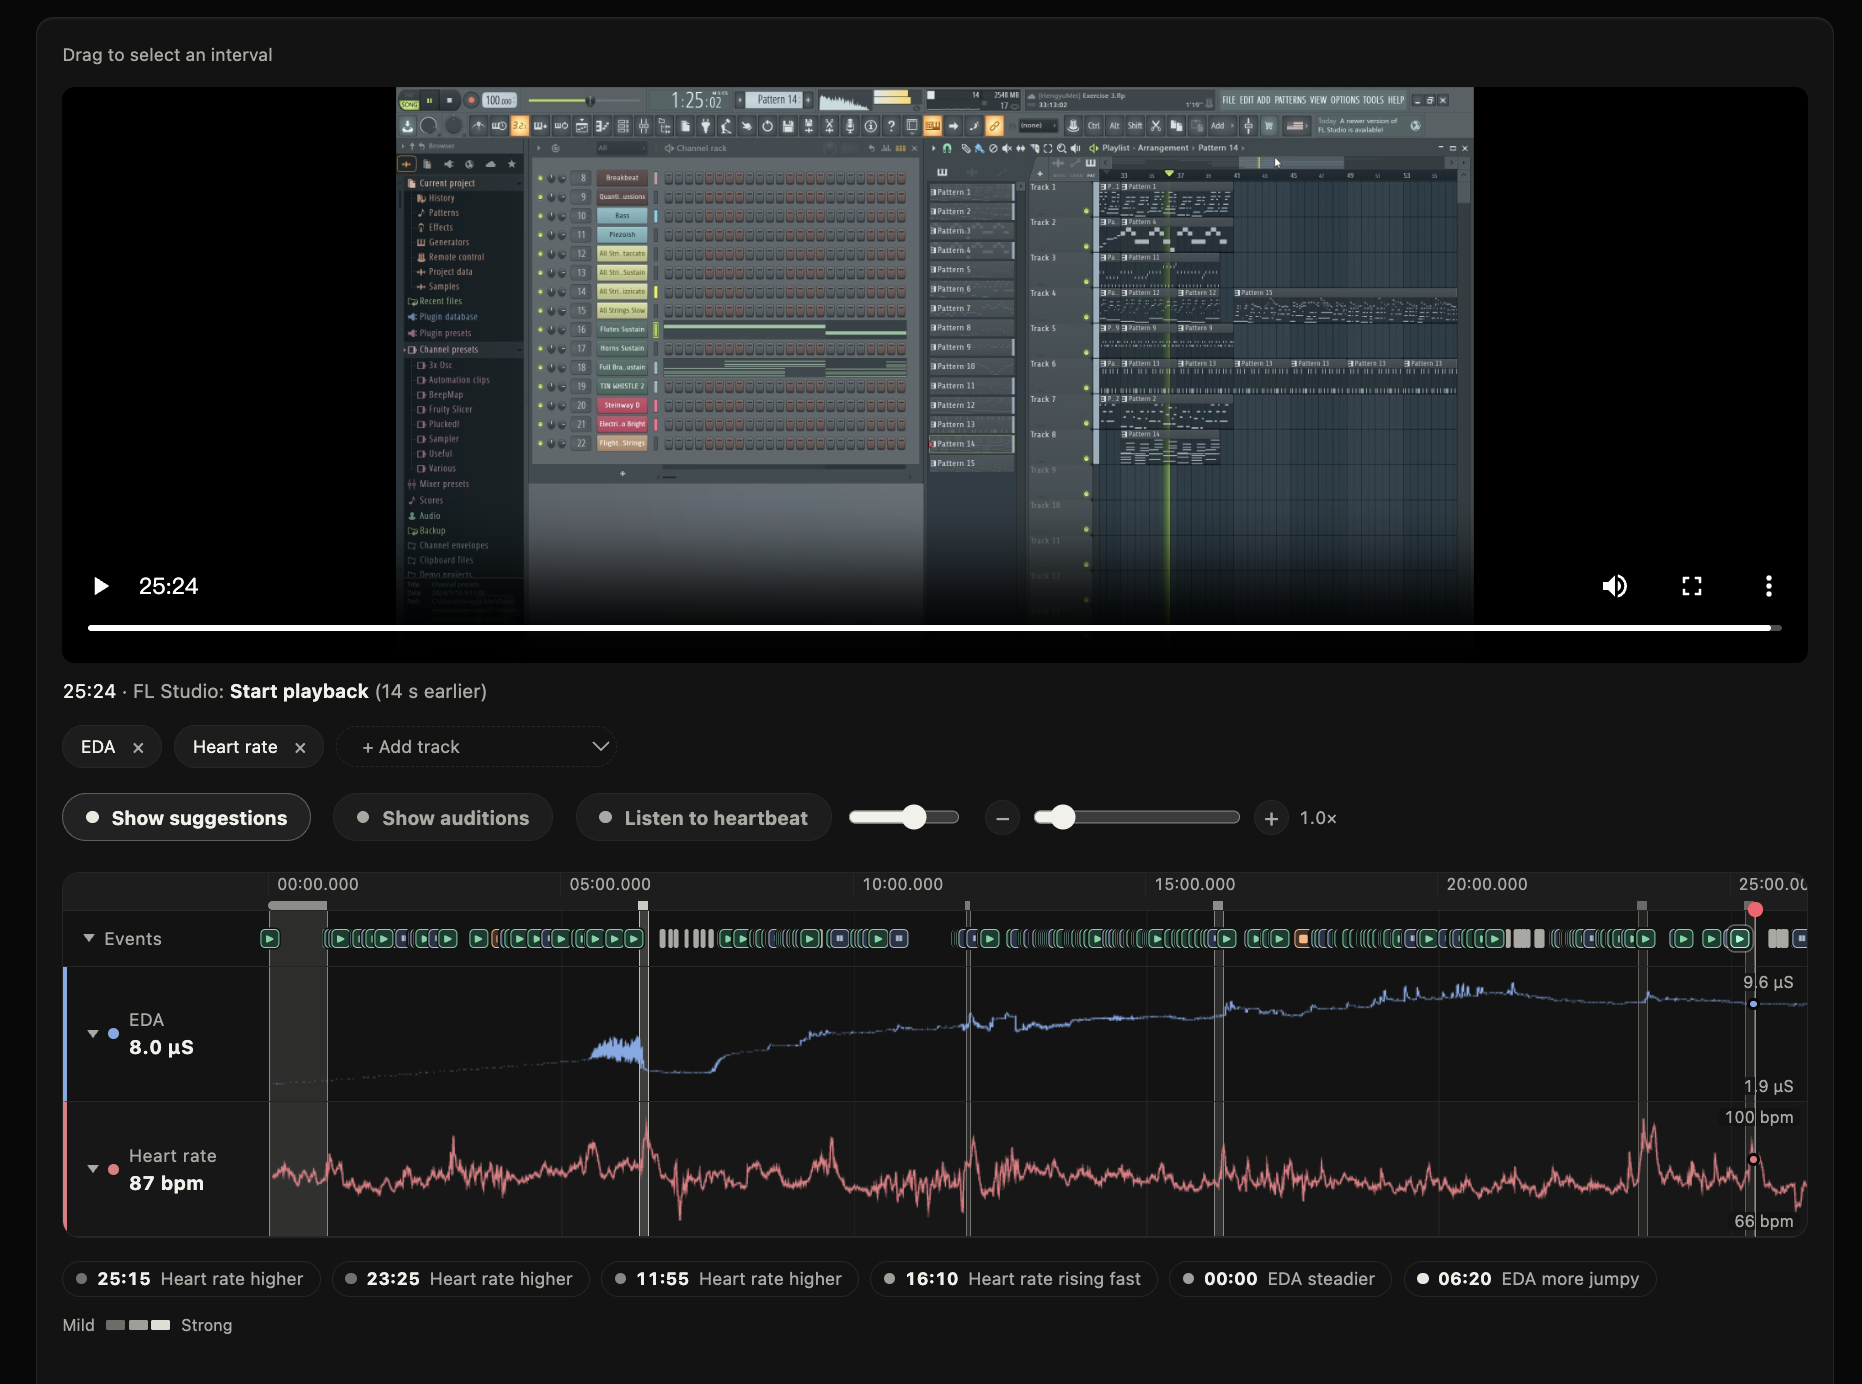
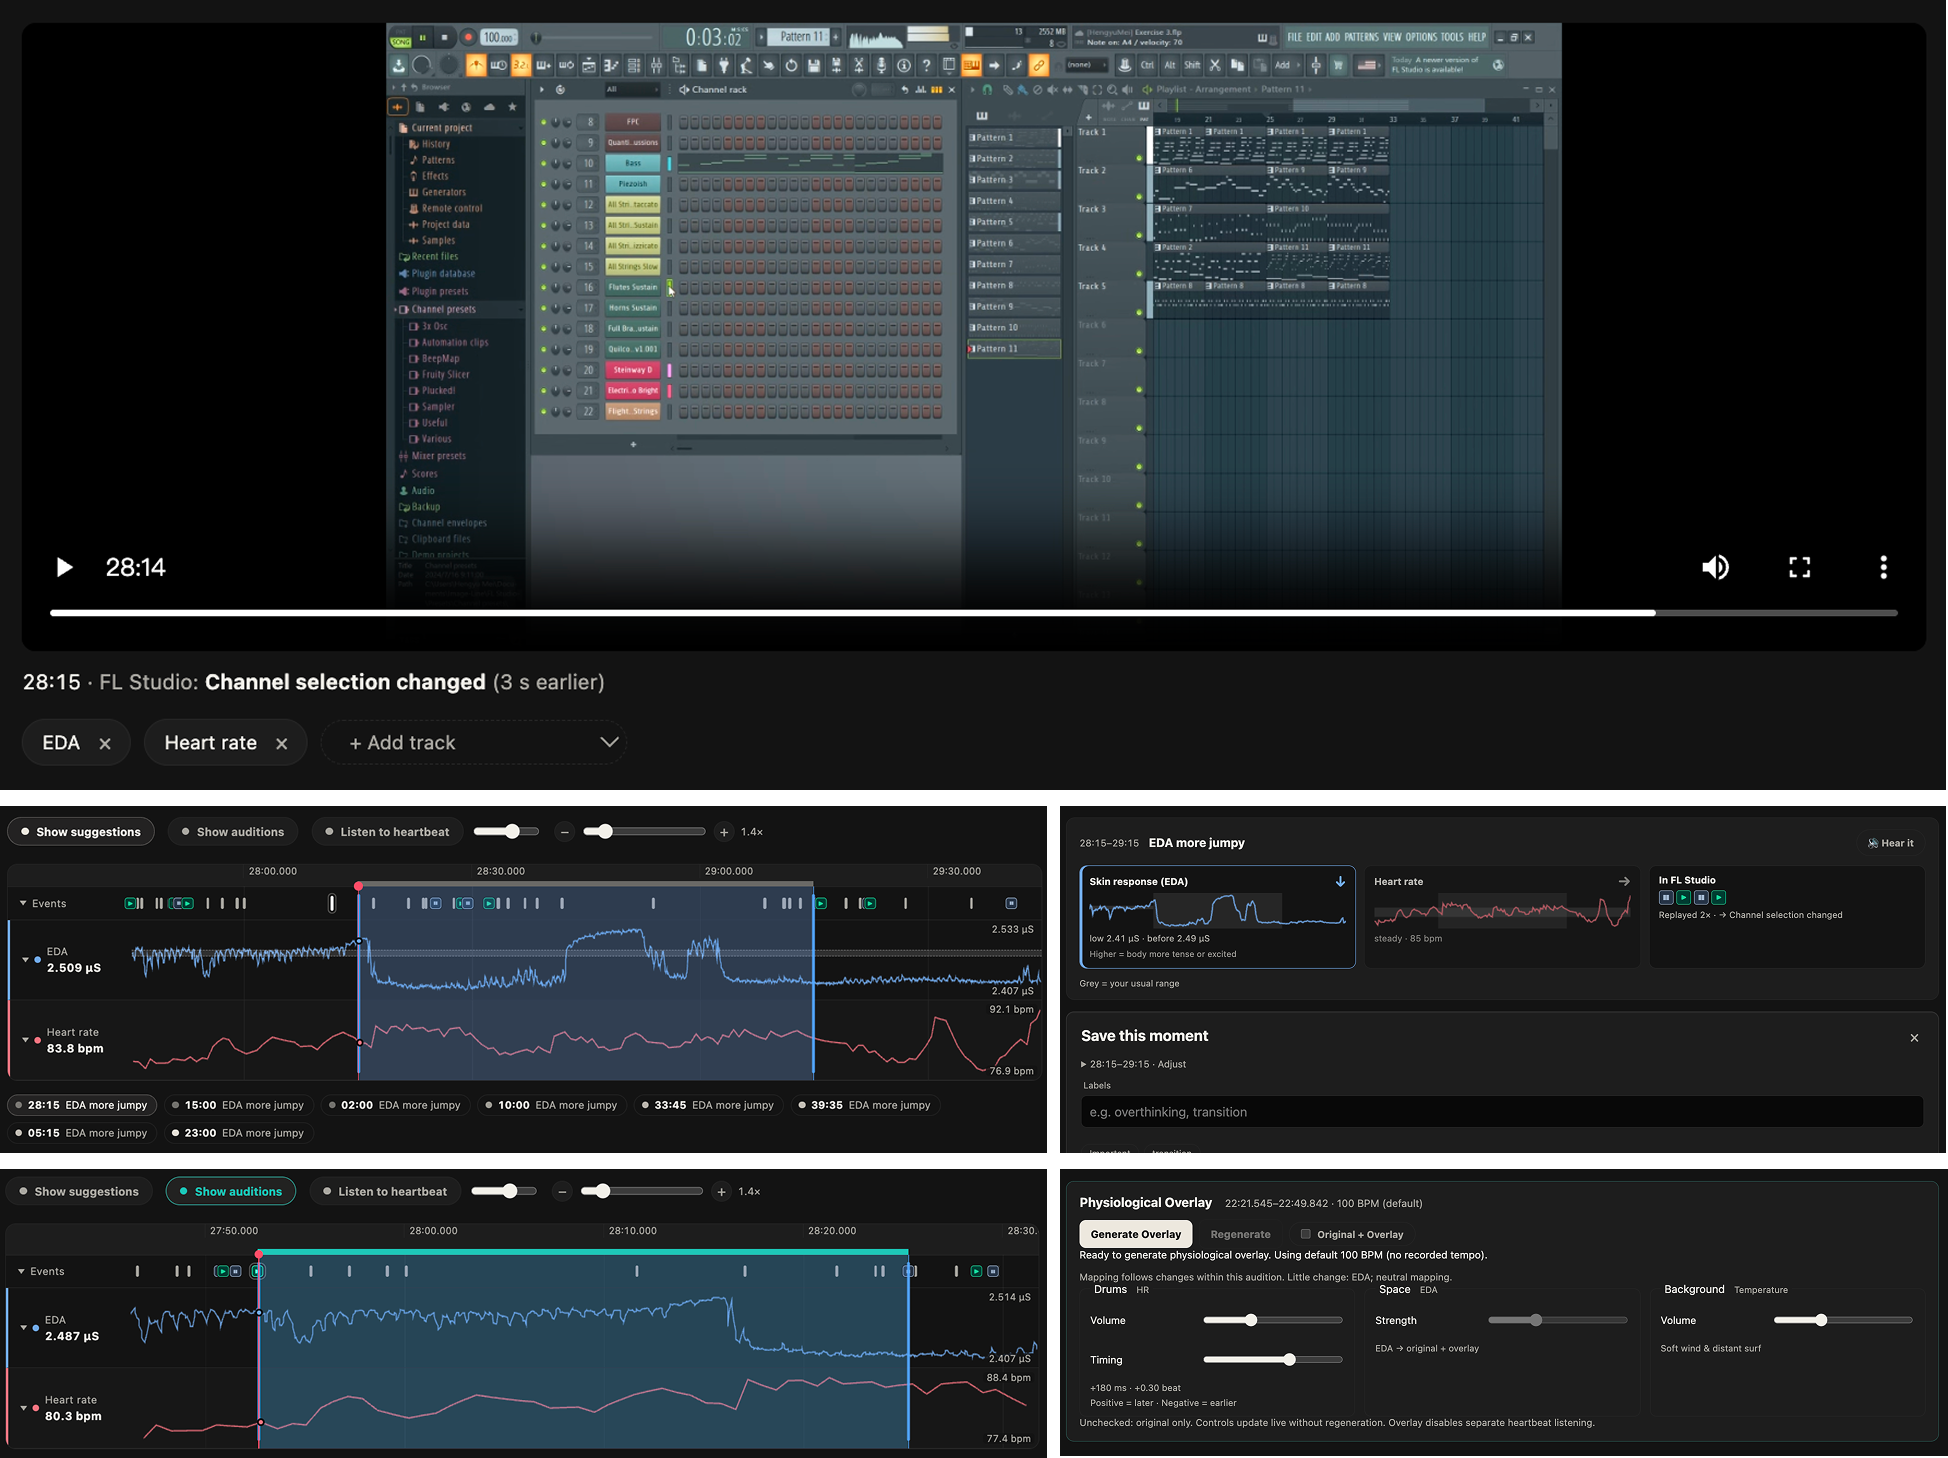
Modify Interface png

diff --git a/README.md b/README.md
@@ -86,7 +86,7 @@ In **Options → MIDI settings** on either platform:
 
 Select a suggested interval or drag across the timeline to add a note and labels. Saved moments appear in **History**.
 
-![screenshot of session review screen showing window recording, fl studio events, and physiological data on the same timeline](docs/fl1.png)
+![screenshot of session review screen showing window recording, fl studio events, and physiological data on the same timeline. Choosing a pattern suggestion allows labeling and saving the moment, and choosing an audition section allows generating overlay sound effects based on physiological data](docs/fl1.png)
 
 ## Documentation
 
